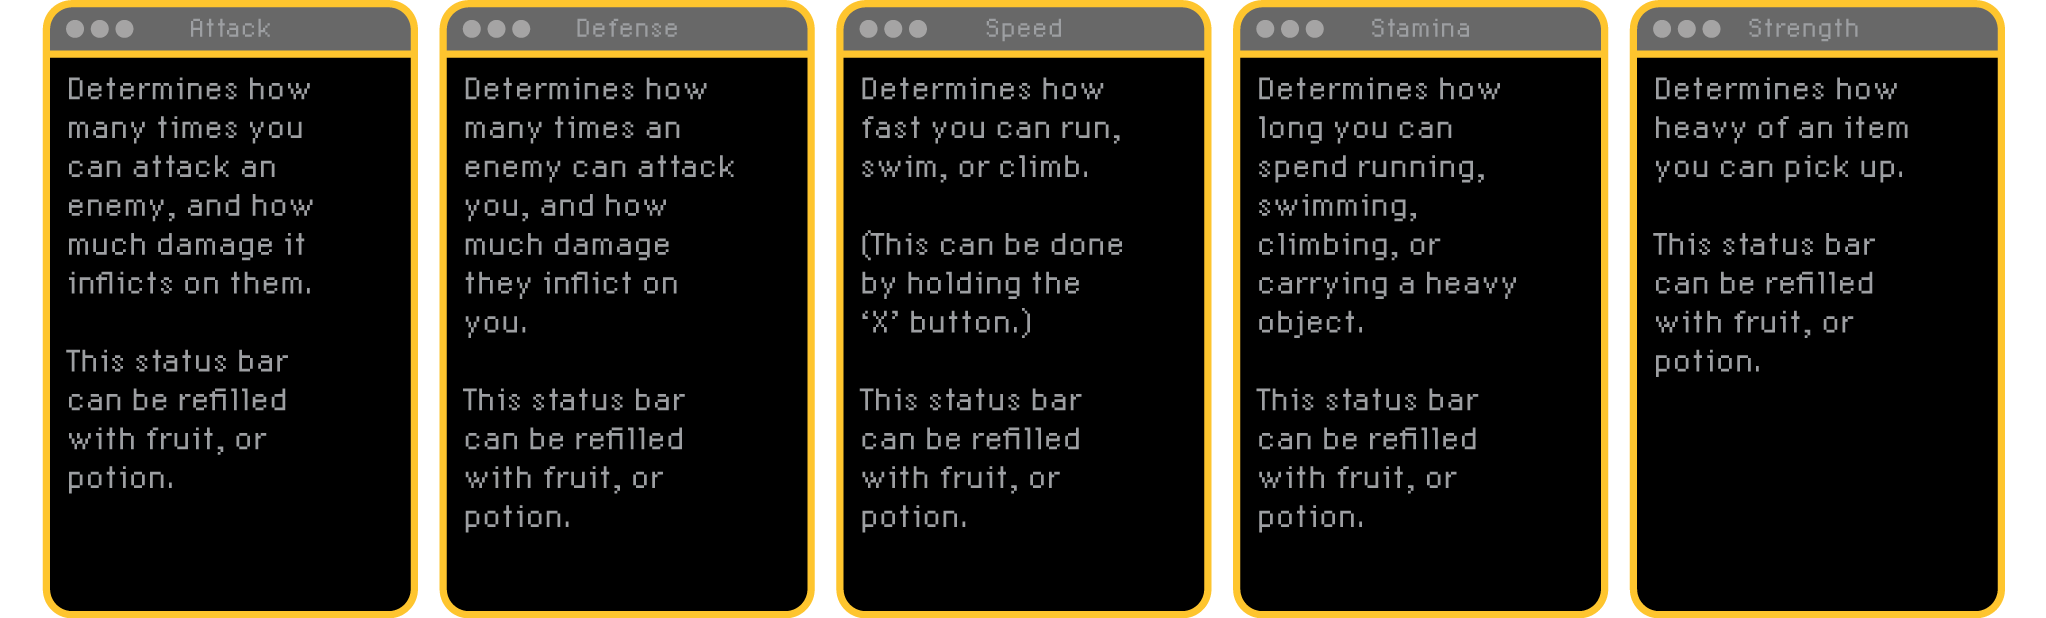
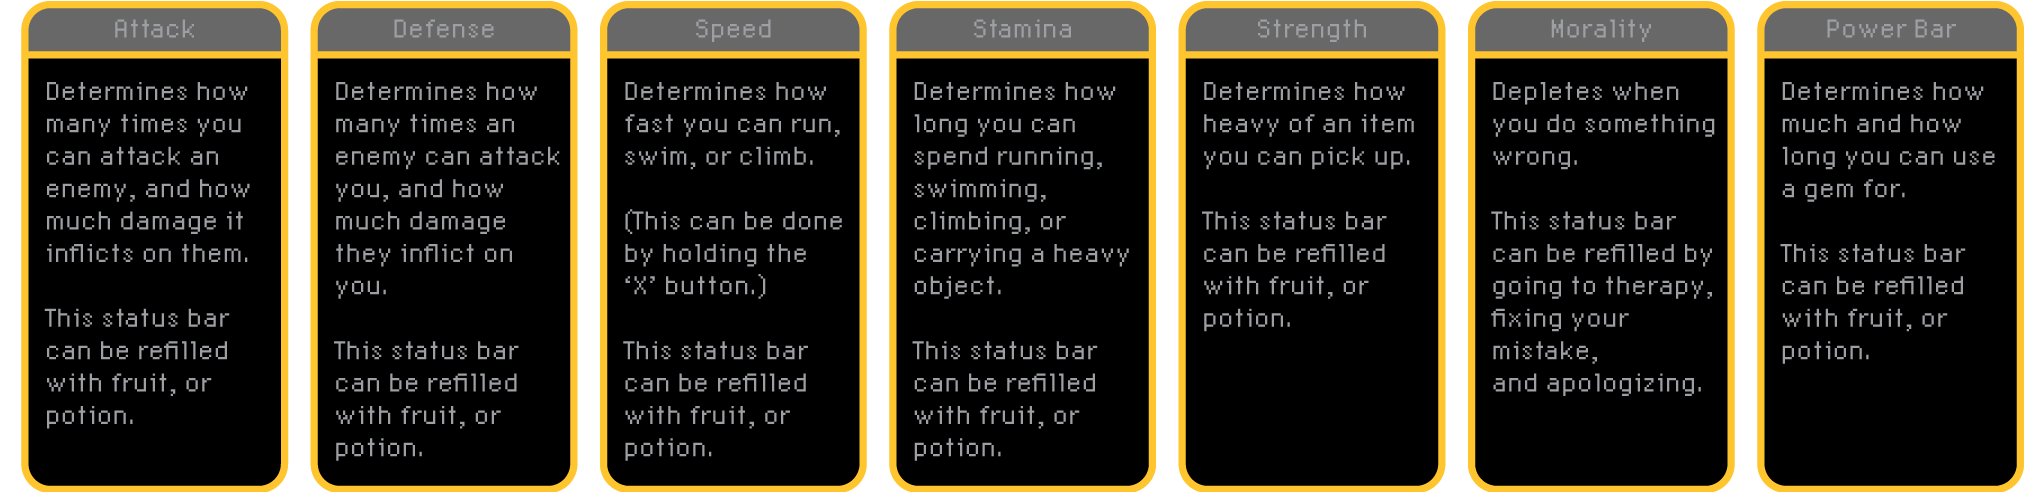
mission and stat changes + queer

diff --git a/0home.html b/0home.html
@@ -61,6 +61,13 @@
 		</div>
 		<div id="text">
 			<img src="images/text2.png" alt="text2" style="width:100%" class="center">
+			<div id="queer">
+				<div><img src="images/queer1.png" alt="queer1" style="width:100%"></div>
+				<div><img src="images/queer2.png" alt="queer2" style="width:100%"></div>
+				<div><img src="images/queer5.png" alt="queer5" style="width:100%"></div>
+				<div><img src="images/queer3.png" alt="queer3" style="width:100%"></div>
+				<div><img src="images/queer4.png" alt="queer4" style="width:100%"></div>
+			</div>
 		</div>
 </div>
 
@@ -126,8 +133,31 @@
 	<div id="mission_click">
 		<div id="mission_icon"><a href="#"><img src="images/mission_icon.png" alt="mission_icon" style="width:100%"></a></div>
 		<div id="hover"><a href="#"><img src="images/mission_icon_text.png" alt="mission_icon" style="width:100%"></a></div>
-		<div id="mission_window"><img src="images/mission_window.png" alt="mission_window" style="width:100%"></div>
+		<div>
+			<div id="mission_bars">
+				<div><img src="images/mission/mission_bar1.png" alt="mission" style="width:100%"></div>
+				<div><img src="images/mission/mission_bar2.png" alt="mission" style="width:100%"></div>
+				<div><img src="images/mission/mission_bar3.png" alt="mission" style="width:100%"></div>
+				<div><img src="images/mission/mission_bar4.png" alt="mission" style="width:100%"></div>
+				<div><img src="images/mission/mission_bar1.png" alt="mission" style="width:100%"></div>
+				<div><img src="images/mission/mission_bar3.png" alt="mission" style="width:100%"></div>
+				<div><img src="images/mission/mission_bar3.png" alt="mission" style="width:100%"></div>
+				<div><img src="images/mission/mission_bar4.png" alt="mission" style="width:100%"></div>
+				<div><img src="images/mission/mission_bar4.png" alt="mission" style="width:100%"></div>
+				<div><img src="images/mission/mission_bar1.png" alt="mission" style="width:100%"></div>
+				<div><img src="images/mission/mission_bar2.png" alt="mission" style="width:100%"></div>
+				<div><img src="images/mission/mission_bar3.png" alt="mission" style="width:100%"></div>
+				<div><img src="images/mission/mission_bar3.png" alt="mission" style="width:100%"></div>
+				<div><img src="images/mission/mission_bar3.png" alt="mission" style="width:100%"></div>
+				<div><img src="images/mission/mission_bar1.png" alt="mission" style="width:100%"></div>
+				<div><img src="images/mission/mission_bar2.png" alt="mission" style="width:100%"></div>
+				<div><img src="images/mission/mission_bar3.png" alt="mission" style="width:100%"></div>
+				<div><img src="images/mission/mission_bar3.png" alt="mission" style="width:100%"></div>
+				<div><img src="images/mission/mission_bar4.png" alt="mission" style="width:100%"></div>
+		</div>
+			<div id="mission_box"><img src="images/mission_box.png" alt="mission_box" style="width:100%" class="center"></div>
 	</div>
+</div>
 	<div id="text">
 		<img src="images/text4.png" alt="text" style="width:100%" class="center">
 		<div id="mission_annotation"><img src="images/mission_annotation.png" alt="mission_annotation" style="width:100%"></div>
@@ -153,8 +183,18 @@
 	<div id="stat_click">
 		<div id="stat_icon"><a href="#"><img src="images/stat_icon.png" alt="stat_icon" style="width:100%"></a></div>
 		<div id="hover"><a href="#"><img src="images/stat_icon_text.png" alt="stat_icon" style="width:100%"></a></div>
+		<div id="power_ups">
+			<div><img src="images/stats/power_up1.png" alt="power_up1" style="width:100%"></div>
+			<div><img src="images/stats/power_up2.png" alt="power_up2" style="width:100%"></div>
+			<div><img src="images/stats/power_up3.png" alt="power_up3" style="width:100%"></div>
+			<div><img src="images/stats/power_up4.png" alt="power_up4" style="width:100%"></div>
+			<div><img src="images/stats/power_up5.png" alt="power_up5" style="width:100%"></div>
+		</div>
+		<div id="stat_window"><img src="images/stat_window.png" alt="stat_window" style="width:100%" class="center"></div>
+		<div id="hover"><img src="images/stat_window_annotations.png" alt="stat_window" style="width:100%" class="center"></div>
 	</div>
 	<div id="text">
+		<img src="images/text5.png" alt="text5" style="width:100%" class="center">
 		<img src="images/stat_annotations.png" alt="stat_annotations" style="width:100%" class="center">
 	</div>
 </div>

diff --git a/0homestyle.css b/0homestyle.css
@@ -57,7 +57,7 @@ html{
 	position: relative;
 }
 
-#map_icon, #character_icon, #friendship_icon, #mission_icon, #stat_icon, #power_icon, #instagram_icon{
+#map_icon, #character_icon, #friendship_icon, #mission_icon, #stat_icon, #stat_window, #power_icon, #instagram_icon{
 	position: absolute;
 	z-index: -1;
 }
@@ -106,6 +106,17 @@ html{
 	display: inline-block;
 }
 
+#queer{
+	overflow-y: auto;
+	white-space: nowrap;
+	position: absolute;
+	bottom: 0;
+  }
+
+#queer > div{
+	display: inline-block;
+}
+
 #friendship_bars{
 	height: 48%;
 	width: 50%;
@@ -135,6 +146,31 @@ html{
 	padding-top: 10px;
 }
 
+#mission_bars{
+	height: 63%;
+	width: 100%;
+	overflow-x: auto;
+	z-index: 1;
+	position: absolute;
+	margin-top: 14%;
+	padding: 1%;
+	padding-left: 2%;
+}
+
+#mission_bars > div{
+	float: left;
+}
+
+#mission_bars::-webkit-scrollbar{
+	position: relative;
+	float: left;
+}
+
+#mission_box{
+	position: relative;
+	z-index: -1;
+}
+
 #mission_annotation{
 	padding-top: 10px;
 }
@@ -142,10 +178,40 @@ html{
 #mission_scroll{
 	overflow-y: auto;
 	white-space: nowrap;
-	height: 10%;
   }
 
 #mission_scroll > div{
+	display: inline-block;
+}
+
+#power_ups{
+	height: 10%;
+	width: 100%;
+	overflow-x: auto;
+	z-index: 2;
+	position: absolute;
+	margin-top: 68.5%;
+	padding: 1%;
+	padding-left: 3%;
+}
+
+#power_ups > div{
+	float: left;
+	padding: 1%;
+}
+
+#power_ups::-webkit-scrollbar{
+	position: relative;
+	float: left;
+}
+
+#stat_windows{
+	overflow-y: auto;
+	white-space: nowrap;
+	padding: 10px;
+  }
+
+#stat_windows > div{
 	display: inline-block;
 }
 
